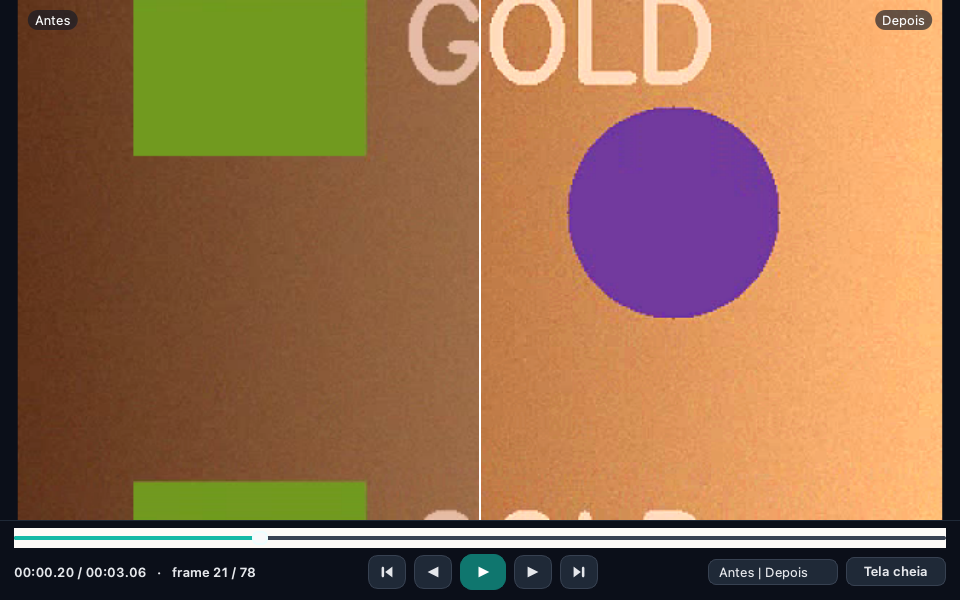
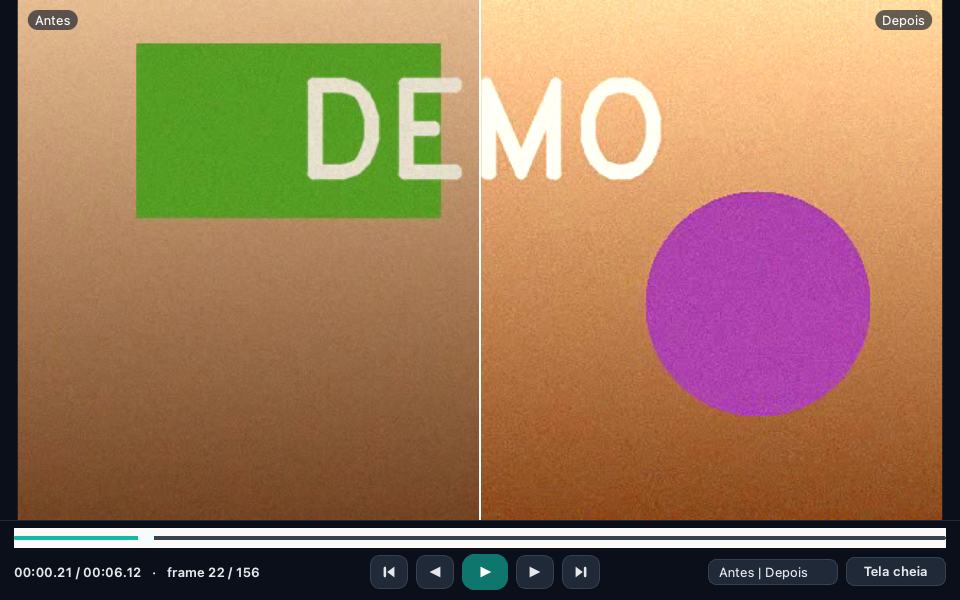
Refresh the README screenshots for the current UI (merged Cor tab, Tempo, manual stabilization)
The screenshots predated the tab reorganisation (Ajustes+HSL merged into "Cor",
"Tempo" added) and the manual-stabilization work. Regenerate them from the real
window and add scripts/screenshots.py so they can be reproduced after UI changes:
it builds a synthetic demo clip, opens it, sets a representative state (a colour
grade, two clips with a removed segment) and grabs the main window and the
separate monitor offscreen. Also mention "Preencher com o movimento" in the
feature list and document the script under Desenvolvimento.

diff --git a/scripts/screenshots.py b/scripts/screenshots.py
@@ -1,0 +1,119 @@
+#!/usr/bin/env python3
+"""Regenerate the README screenshots from the current UI, offscreen and reproducibly.
+
+Builds a synthetic demo clip (a warm test pattern with grain, so the before/after and the denoise
+have something to show), opens it in the real ``MainWindow``, sets a representative state — a colour
+grade, two clips with a removed segment — and grabs the window. Then pops the separate monitor into
+its "Antes | Depois" split and grabs that too. Run with the project's virtualenv:
+
+    QT_QPA_PLATFORM=offscreen .venv/bin/python scripts/screenshots.py
+
+The two PNGs land in ``docs/screenshots/`` at the sizes the README expects (1360x820 and 960x600).
+It never plays audio and touches nothing outside a temp dir and ``docs/screenshots/``.
+"""
+
+from __future__ import annotations
+
+import os
+import tempfile
+import time
+from pathlib import Path
+
+os.environ.setdefault("QT_QPA_PLATFORM", "offscreen")
+os.environ.setdefault("SVE_PREVIEW_AUDIO", "0")
+
+import cv2
+import numpy as np
+from PySide6.QtCore import QRectF
+from PySide6.QtWidgets import QApplication
+
+from space_video_enhancer.ui.main_window import MainWindow
+
+REPO_ROOT = Path(__file__).resolve().parent.parent
+SCREENSHOTS_DIR = REPO_ROOT / "docs" / "screenshots"
+WIDTH, HEIGHT, FRAMES, FPS = 640, 360, 78, 24.0
+RNG = np.random.default_rng(7)
+
+
+def _demo_frame() -> np.ndarray:
+    """A warm gradient with a green block, a purple disc and a title — a stand-in for real footage."""
+    frame = np.zeros((HEIGHT, WIDTH, 3), dtype=np.uint8)
+    top, bottom = np.array([150, 190, 235], np.float64), np.array([40, 70, 120], np.float64)  # BGR sky -> ground
+    for y in range(HEIGHT):
+        frame[y, :] = top + (bottom - top) * (y / HEIGHT)
+    cv2.rectangle(frame, (40, 30), (250, 150), (40, 160, 90), -1)  # a green block, top-left
+    cv2.circle(frame, (470, 210), 78, (150, 70, 150), -1)  # a purple disc, right
+    cv2.putText(frame, "DEMO", (150, 120), cv2.FONT_HERSHEY_DUPLEX, 3.0, (210, 225, 235), 6, cv2.LINE_AA)
+    return frame
+
+
+def _write_demo_clip(path: Path) -> None:
+    writer = cv2.VideoWriter(str(path), cv2.VideoWriter_fourcc(*"mp4v"), FPS, (WIDTH, HEIGHT))
+    base = _demo_frame()
+    for index in range(FRAMES):
+        drifted = np.roll(base, index * 2, axis=1)  # a slow pan, so the timeline thumbnails differ
+        grain = RNG.normal(0.0, 7.0, drifted.shape)  # light film grain for denoise to bite on
+        writer.write(np.clip(drifted.astype(np.float64) + grain, 0, 255).astype(np.uint8))
+    writer.release()
+
+
+def _wait(app: QApplication, window, seconds: float = 1.2) -> None:
+    deadline = time.monotonic() + seconds
+    while time.monotonic() < deadline:
+        app.processEvents()
+        time.sleep(0.01)
+
+
+def main() -> None:
+    SCREENSHOTS_DIR.mkdir(parents=True, exist_ok=True)
+    app = QApplication.instance() or QApplication([])
+
+    clip_dir = Path(tempfile.mkdtemp(prefix="sve-shots-"))
+    clip = clip_dir / "clip_a.mp4"
+    _write_demo_clip(clip)
+
+    window = MainWindow()
+    window.confirm_discard = False
+    window.resize(1360, 820)
+    window.show()
+    _wait(app, window, 0.3)
+
+    window._open_video(clip)
+    _wait(app, window)
+    window._add_video(clip)  # a second clip on the timeline
+    _wait(app, window)
+    window.transport.set_value(21)  # park on a frame with the pattern well inside
+    window.color_tab.contrast_slider.slider.setValue(62)  # +12
+    window.color_tab.saturation_slider.slider.setValue(58)  # +8
+    window.color_tab.sharpen_slider.slider.setValue(25)
+    window._add_cut(30, 42)  # a removed segment, to show the export trimming
+    window.settings_tabs.setCurrentWidget(window.color_page)
+    window.white_balance_rect_norm = QRectF(0.05, 0.62, 0.15, 0.18)  # tuck the grey-reference box off the title
+    window._sync_white_balance_preview()
+    _wait(app, window)
+
+    main_path = SCREENSHOTS_DIR / "janela-principal.png"
+    window.grab().save(str(main_path))
+    print(f"wrote {main_path.relative_to(REPO_ROOT)}")
+
+    window.monitor_action.trigger()  # pop out the separate monitor
+    monitor = window._monitor
+    assert monitor is not None
+    monitor.resize(960, 600)
+    for index in range(monitor.view_combo.count()):
+        if monitor.view_combo.itemData(index) == "split":  # "Antes | Depois"
+            monitor.view_combo.setCurrentIndex(index)
+            break
+    monitor.show()
+    _wait(app, window)
+    monitor_path = SCREENSHOTS_DIR / "monitor.png"
+    monitor.grab().save(str(monitor_path))
+    print(f"wrote {monitor_path.relative_to(REPO_ROOT)}")
+
+    window.monitor_action.trigger()  # close the monitor before teardown
+    window.close()
+    _wait(app, window, 0.2)
+
+
+if __name__ == "__main__":
+    main()

diff --git a/README.md b/README.md
@@ -25,7 +25,7 @@ Editor de vídeo offline para desktop, **multiplataforma** (macOS, Linux e Windo
 - Desfazer/refazer com rótulos ("Desfazer ajuste de estabilização"); projetos salvos em JSON legível (`.svep`) com lista de recentes.
 
 **Processamento** (OpenCV, CPU ou OpenCL)
-- **Estabilização**: suavizar tremor (deslocamento, +rotação e zoom, +perspectiva), travar uma região (*camera lock*) ou híbrida; intensidade, suavização temporal, crop automático. O estimador escolhe a hipótese de movimento que se **espalha** pelo quadro, então uma pessoa cobrindo metade do frame não vira "a câmera". Ou **Manual (keyframes)**: você alinha um frame de tempos em tempos (posição, rotação, zoom e o *jelly* — cisalhamento e esticar vertical) contra uma **referência fantasma** sobreposta com transparência, e o ajuste é interpolado entre os keyframes — afim, sem perspectiva, então nada de deformação surpresa.
+- **Estabilização**: suavizar tremor (deslocamento, +rotação e zoom, +perspectiva), travar uma região (*camera lock*) ou híbrida; intensidade, suavização temporal, crop automático. O estimador escolhe a hipótese de movimento que se **espalha** pelo quadro, então uma pessoa cobrindo metade do frame não vira "a câmera". Ou **Manual (keyframes)**: você alinha um frame de tempos em tempos (posição, rotação, zoom e o *jelly* — cisalhamento e esticar vertical) contra uma **referência fantasma** sobreposta com transparência, e o ajuste é interpolado entre os keyframes — afim, sem perspectiva, então nada de deformação surpresa; **Preencher com o movimento** rastreia o clipe e cria os keyframes intermediários seguindo o movimento medido da câmera, tirando o tremor entre os que você marcou.
 - **Ruído**: NLMeans desligado, manual, automático pelo frame ou por uma amostra escolhida no preview.
 - **Cor**: contraste, brilho, gama, saturação, temperatura e nitidez com presets de *look*; balanço de branco por região cinza, pelo realce (quando não há cinza na cena) ou *gray world*, tint, ajuste de matiz/saturação/luminância por oito faixas de matiz (sliders com groove colorido mostrando para onde cada direção puxa a cor); trava de exposição para câmeras em auto-exposição.
 - **Geometria**: crop interativo com proporções, rotação 90°/180°/270° e espelhamento.
@@ -154,6 +154,8 @@ QT_QPA_PLATFORM=offscreen pytest
 ```
 
 Os testes de interface rodam offscreen (sem display) e verificam layout, atalhos e fluxos completos com vídeos sintéticos; os de exportação usam o `ffmpeg` do `PATH` e são pulados se ele não existir. Os testes que tocam Qt levam a marca `ui` — `pytest -m "not ui"` é o loop rápido (pipeline e modelo, ~6 s); a suíte inteira é o critério. `benchmarks/` tem os scripts de medição (tremor residual, custo dos estimadores, variantes de denoise) — veja [benchmarks/README.md](benchmarks/README.md).
+
+Os prints deste README são gerados da UI atual, offscreen e de forma reprodutível, por `QT_QPA_PLATFORM=offscreen .venv/bin/python scripts/screenshots.py` (monta um clipe de demonstração sintético, abre a janela real e captura `docs/screenshots/`). Rode-o depois de mudanças visíveis na interface.
 
 ## Limitações conhecidas
 
